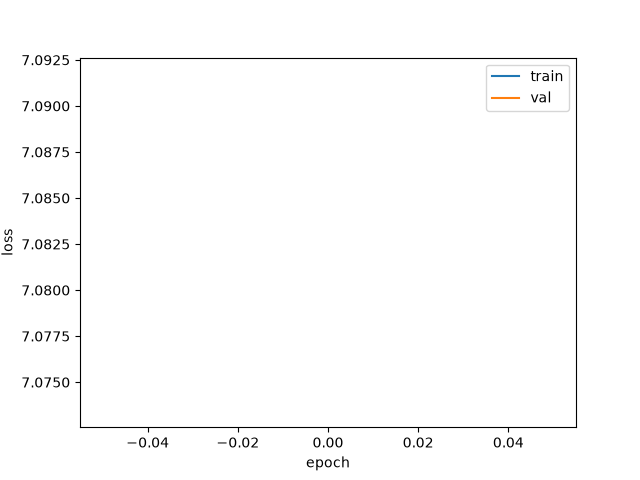
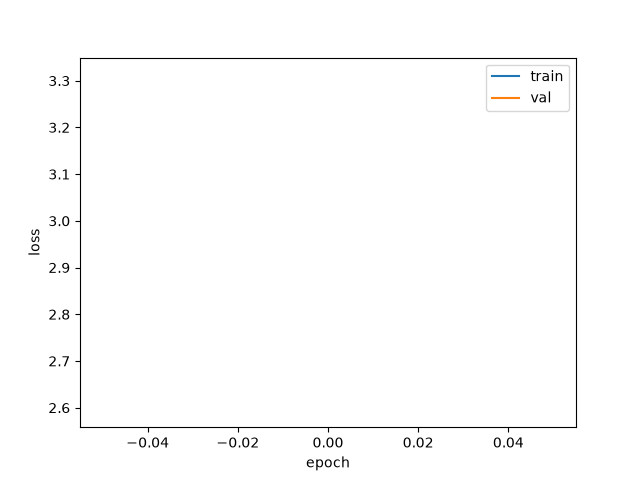
Added wikitext-103 corpus loader

diff --git a/main.py b/main.py
@@ -6,8 +6,14 @@ import matplotlib.pyplot as plt
 import torch
 
 from dataclasses import replace
-from src.config import CPU_CONFIG, GPU_CONFIG, OUTPUT_DIR
-from src.data_utils import download_text, load_text
+from src.config import (
+    CPU_CONFIG,
+    GPU_CONFIG,
+    DEFAULT_DATA_URL,
+    DEFAULT_DATASET_PATH,
+    DEFAULT_OUTPUT_DIR,
+)
+from src.data_utils import download_text, load_text, load_wikitext
 from src.dataset import create_gpt_dataloader
 from src.gpt_model import GPTModel
 from src.tokenizer import build_vocab, SimpleTokenizer, TikTokenizer
@@ -24,7 +30,9 @@ def parse_args():
     parser.add_argument("--gpu", action="store_true")
     parser.add_argument("--sample-prompt", type=str, default=None)
     parser.add_argument("--tokenizer", choices=["simple", "tiktoken"], default="simple")
-    parser.add_argument("--data-url", type=str, default=None)
+    parser.add_argument("--data-url", type=str, default=DEFAULT_DATA_URL)
+    parser.add_argument("--dataset-path", type=str, default=DEFAULT_DATASET_PATH)
+    parser.add_argument("--output-dir", type=str, default=DEFAULT_OUTPUT_DIR)
     return parser.parse_args()
 
 
@@ -34,11 +42,17 @@ if __name__ == "__main__":
     sample_prompt = args.sample_prompt or "Gisburn had a evil smile, and"
 
     logging.info("Loading data...")
-    if args.data_url:
-        download_text(url=args.data_url)
-    raw_text = load_text()
+    download_text(url=args.data_url, file_path=args.dataset_path)
+    raw_text = load_text(file_path=args.dataset_path)
     logging.info(f"  {len(raw_text):,} chars loaded")
+
     tokenizer = None
+    train_text, val_text = load_wikitext()
+    # split = int(len(raw_text) * 0.9)
+    # train_text = raw_text[:split]
+    # val_text = raw_text[split:]
+    logging.info(f"train_text:{train_text[:10]}")
+
     if args.tokenizer == "tiktoken":
         tokenizer = TikTokenizer("gpt2")
     else:
@@ -46,9 +60,8 @@ if __name__ == "__main__":
         tokenizer = SimpleTokenizer(vocab)
         cfg = replace(cfg, vocab_size=len(vocab))
 
-    split = int(len(raw_text) * 0.9)
     train_loader = create_gpt_dataloader(
-        raw_text[:split],
+        train_text,
         tokenizer=tokenizer,
         max_len=cfg.context_window_size,
         stride=cfg.stride,
@@ -56,7 +69,7 @@ if __name__ == "__main__":
         num_workers=cfg.num_workers,
     )
     val_loader = create_gpt_dataloader(
-        raw_text[split:],
+        val_text,
         tokenizer=tokenizer,
         max_len=cfg.context_window_size,
         stride=cfg.stride,
@@ -91,8 +104,9 @@ if __name__ == "__main__":
     plt.legend()
     plt.xlabel("epoch")
     plt.ylabel("loss")
-    plt.savefig(os.path.join(OUTPUT_DIR, "train_validation_curve.png"))
+    os.makedirs(args.output_dir, exist_ok=True)
+    plt.savefig(os.path.join(args.output_dir, "train_validation_curve.png"))
     plt.close()
 
-    torch.save(model.state_dict(), os.path.join(OUTPUT_DIR, "model.pth"))
+    torch.save(model.state_dict(), os.path.join(args.output_dir, "model.pth"))
     logging.info("Saved model")

diff --git a/src/data_utils.py b/src/data_utils.py
@@ -1,20 +1,31 @@
 import os
 import requests
+from datasets import load_dataset
 
-from src.config import DATA_URL, DATASET_PATH
 
-
-def download_text(url: str = DATA_URL, file_path: str = DATASET_PATH) -> None:
-    """Download a text file if it doesn't already exist."""
+def download_text(url: str, file_path: str, force: bool = True) -> None:
     os.makedirs(os.path.dirname(file_path), exist_ok=True)
-    if not os.path.exists(file_path):
+    if force or not os.path.exists(file_path):
         response = requests.get(url, timeout=30)
         response.raise_for_status()
         with open(file_path, "wb") as f:
             f.write(response.content)
 
 
-def load_text(file_path: str = DATASET_PATH) -> str:
-    """Read and return the contents of a text file."""
-    with open(file_path, "r", encoding="utf-8") as f:
+def load_text(file_path: str) -> str:
+    with open(file_path, "r", encoding="utf-8", errors="replace") as f:
         return f.read()
+
+
+def load_wikitext() -> tuple[str, str]:
+
+    dataset = load_dataset("Salesforce/wikitext", "wikitext-103-raw-v1")
+
+    train_text = "\n".join(dataset["train"]["text"][:3000])
+    val_text = "\n".join(dataset["validation"]["text"][:500])
+
+    # Clean up empty lines in the dataset
+    train_text = "\n".join(line for line in train_text.splitlines() if line.strip())
+    val_text = "\n".join(line for line in val_text.splitlines() if line.strip())
+
+    return train_text, val_text

diff --git a/src/config.py b/src/config.py
@@ -1,10 +1,9 @@
 import os
 from dataclasses import dataclass
 
-
-DATA_URL = "https://raw.githubusercontent.com/rasbt/LLMs-from-scratch/main/ch02/01_main-chapter-code/the-verdict.txt"
-OUTPUT_DIR = os.path.join(os.path.dirname(__file__), "..", "artifacts")
-DATASET_PATH = os.path.join(OUTPUT_DIR, "dataset.txt")
+DEFAULT_DATA_URL = "https://raw.githubusercontent.com/rasbt/LLMs-from-scratch/main/ch02/01_main-chapter-code/the-verdict.txt"
+DEFAULT_DATASET_PATH = os.path.join(os.path.dirname(__file__), "..", "artifacts", "dataset.txt")
+DEFAULT_OUTPUT_DIR = os.path.join(os.path.dirname(__file__), "..", "artifacts")
 
 
 @dataclass(frozen=True)
@@ -21,7 +20,6 @@ class GPTConfig:
     n_layer: int
     num_epochs: int
     num_workers: int
-
     lr: float
 
 
@@ -43,16 +41,16 @@ CPU_CONFIG = GPTConfig(
 
 GPU_CONFIG = GPTConfig(
     vocab_size=50257,
-    context_window_size=512,
+    context_window_size=256,
     context_length=1024,
-    batch_size=64,
+    batch_size=32,
     stride=32,
     embed_dim=768,
     head_dim=64,
     num_heads=12,
     drop_rate=0.0,
     n_layer=12,
-    num_epochs=1,
+    num_epochs=10,
     num_workers=4,
     lr=3e-4,
 )